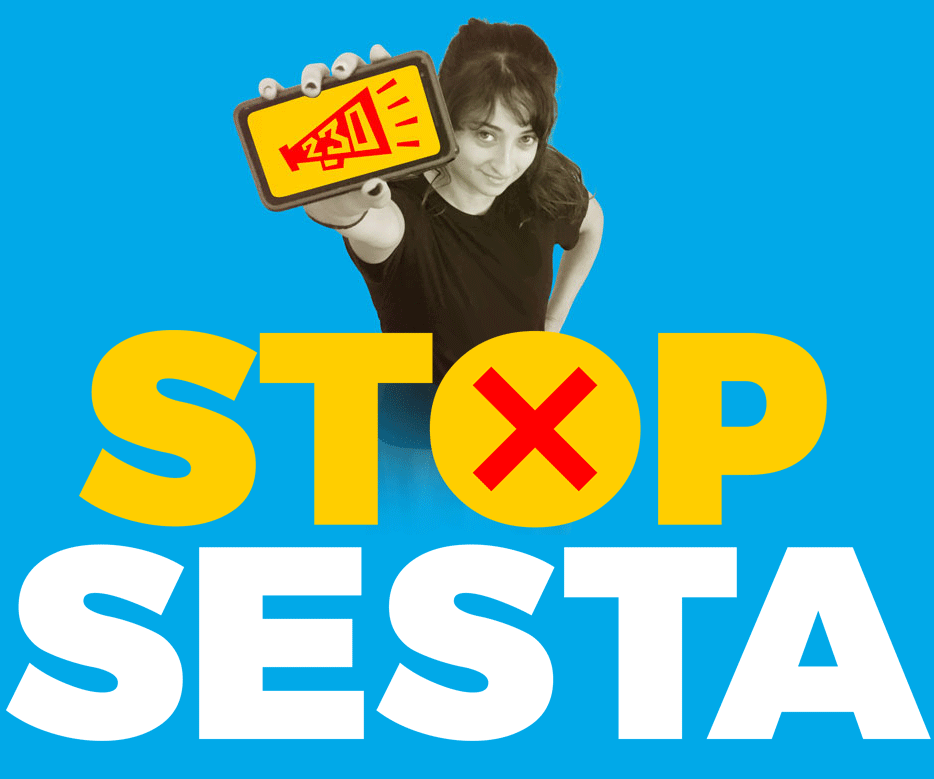
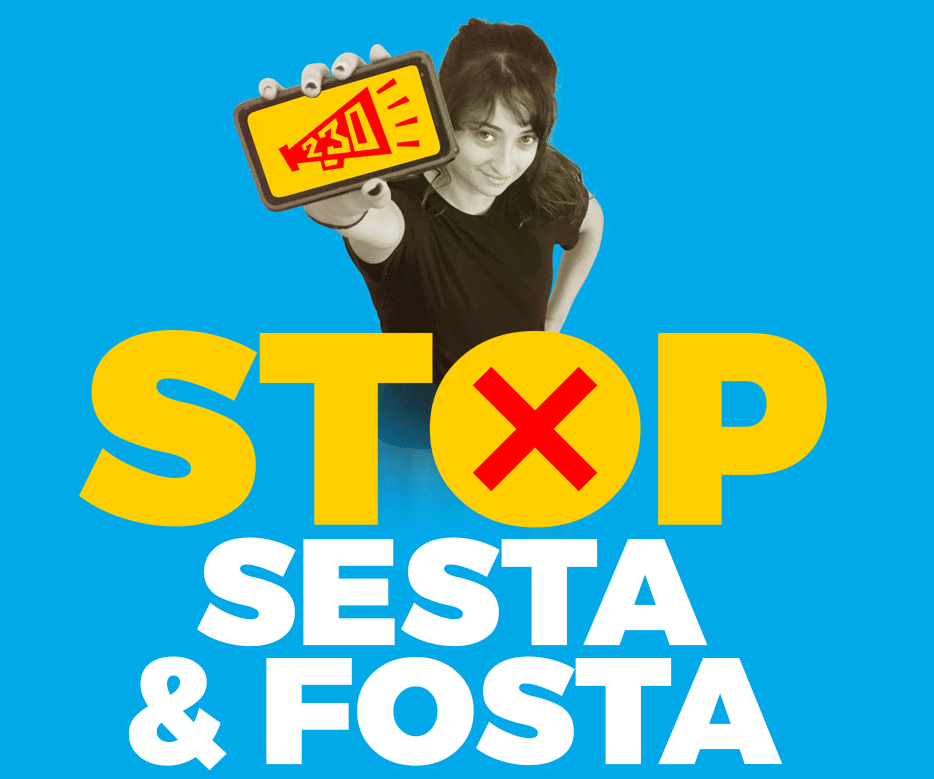
Compile

Changed region(s): [[0.0, 0.6778, 0.9936, 0.9859]]

diff --git a/index.html b/index.html
@@ -4,7 +4,7 @@
 	<meta name="generator" content="Hugo 0.26" />
   <meta charset="utf-8">
 <title>
-  Stop SESTA
+  Stop SESTA/FOSTA
 </title>
 
 <link rel="shortcut icon" href="favicon.ico" type="image/vnd.microsoft.icon" />
@@ -82,8 +82,6 @@
     background-color: #ffd100;
     color: #ff0000;
     border-color: #ff0000; }
-  #tools h3.privacy-notice-header span.privacy-notice-popover {
-    float: left; }
   #tools #congress-message-tool h3 span.customize-message-popover:hover,
   #tools h3.privacy-notice-header span.privacy-notice-popover:hover,
   #tools h3.privacy-notice-header span.privacy-notice-popover:hover {
@@ -95,30 +93,47 @@
     text-transform: uppercase;
     font-weight: bold;
     font-size: 11px; }
-  #tools #congress-message-tool input.action,
+  #tools #congress-message-tool button.action,
   #tools #call-tool button.action {
     clear: both;
     text-decoration: none;
     font-weight: 400;
+    font-size: 18px;
     letter-spacing: 0.2em;
     text-transform: uppercase;
     border: 3px solid #ff0000;
     padding: 2px 15px;
     font-weight: bold;
     border-radius: 6px;
-    margin-top: 2em;
-    background-color: transparent;
+    margin-top: 3em;
+    background-color: #ffd100;
     outline: 0;
     color: #ff0000;
     width: auto;
     display: block;
     margin-left: auto;
     margin-right: auto; }
-    #tools #congress-message-tool input.action:hover,
+    #tools #congress-message-tool button.action:hover,
     #tools #call-tool button.action:hover {
       background-color: #ff0000;
       border: 3px solid #ff0000;
       color: #ffd100; }
+  #tools #congress-message-tool h3.privacy-notice-header span.privacy-notice-popover,
+  #tools #call-tool h3.privacy-notice-header span.privacy-notice-popover {
+    float: left;
+    margin-right: 3px; }
+  #tools #congress-message-tool .tool-body,
+  #tools #call-tool .tool-body {
+    background-color: #eee;
+    padding-bottom: 2rem; }
+    #tools #congress-message-tool .tool-body .call-script-box,
+    #tools #call-tool .tool-body .call-script-box {
+      background-color: #fff; }
+  #tools #congress-message-tool .signup-radios label.radio-inline,
+  #tools #congress-message-tool .email-signup label.radio-inline,
+  #tools #call-tool .signup-radios label.radio-inline,
+  #tools #call-tool .email-signup label.radio-inline {
+    background-color: #fff; }
   #tools .tool .tool-body {
     position: relative; }
   #tools .tool form {
@@ -135,18 +150,18 @@ body.action_page-embed_iframe {
 <script type="text/javascript" src="https://act.eff.org/action/embed"></script>
 
 
-<meta property="og:site_name" content="Stop SESTA"/>
-<meta property="og:image" content="https://stopsesta.org/images/stop-sesta-OG-2.jpg" />
-<meta property="og:title" content="Stop SESTA"/>
-<meta property="og:description" content="Defend our online communities. SESTA would put our communities in danger."/>
+<meta property="og:site_name" content="Stop SESTA/FOSTA"/>
+<meta property="og:image" content="https://stopsesta.org/images/stop-sesta-OG.png" />
+<meta property="og:title" content="Stop SESTA/FOSTA"/>
+<meta property="og:description" content="Defend our online communities. SESTA/FOSTA would put our communities in danger."/>
 <meta property="og:type" content="website"/>
-<meta property="og:url" content="https://stopsesta.org/images/stop-sesta-OG-2.jpg"/>
+<meta property="og:url" content="https://stopsesta.org/images/stop-sesta-OG.png"/>
 <meta property="fb:app_id" content="147715685336936" />
  
 <meta name="twitter:card" content="summary_large_image">
-<meta name="twitter:title" content="Stop SESTA">
-<meta name="twitter:description" content="Defend our online communities. SESTA would put our communities in danger.">
-<meta name="twitter:image" content="https://stopsesta.org/images/stop-sesta-OG-2.jpg">
+<meta name="twitter:title" content="Stop SESTA/FOSTA">
+<meta name="twitter:description" content="Defend our online communities. SESTA/FOSTA would put our communities in danger.">
+<meta name="twitter:image" content="https://stopsesta.org/images/stop-sesta-OG.png">
 
 </head>
 
@@ -162,11 +177,12 @@ body.action_page-embed_iframe {
         <span class="icon-bar"></span>
         <span class="icon-bar"></span>
       </button>
-      <a class="navbar-brand" href="#top">Stop SESTA</a>
+      <a class="navbar-brand" href="#top">Stop SESTA/FOSTA</a>
     </div>
     <div id="navbar" class="collapse navbar-collapse">
       <ul class="nav navbar-nav navbar-right">
         <li><a href="#quotes">Quotes</a></li>
+        <li><a href="#facts">Facts</a></li>
         <li><a href="#take-action">Take Action</a></li>
         <li><a href="#who-we-are">Who We Are</a></li>
       </ul>
@@ -187,15 +203,15 @@ body.action_page-embed_iframe {
         <div class="col-md-8 col-md-offset-2">
           <div class="white-box">
 
-<p>We all rely on online communities to work, socialize, and learn. From the largest social media site to the smallest community message board, online  platforms are central to our right to assemble and speak out. <a href="https://www.eff.org/deeplinks/2017/08/internet-censorship-bill-would-spell-disaster-speech-and-innovation">SESTA would put those communities in danger</a>.</p>
+<p>We all rely on online communities to work, socialize, and learn. From the largest social media sites to the smallest message board, online platforms are central to our right to assemble and speak out. <a href="https://www.eff.org/deeplinks/2018/02/fosta-would-be-disaster-online-communities">SESTA and FOSTA would put all of us at risk</a> of being shut out of those spaces.</p>
 
-<p>The authors of SESTA say it&#8217;s designed to fight sex trafficking, but the bill wouldn&#8217;t punish traffickers. It <em>would</em> threaten legitimate online speech.</p>
+<p>The authors of these bills in Congress say they&#8217;re designed to fight sex trafficking, but the bills wouldn&#8217;t punish traffickers. They would threaten legitimate online speech.</p>
 
-<p>Online platforms are enabled by a special law referred to as CDA 230 or simply Section 230. Section 230 protects online platforms from liability for some types of speech by their users. Without Section 230, social media would not exist in its current form, and neither would the plethora of nonprofit and community-based online groups that serve as crucial outlets for free expression and knowledge sharing.</p>
+<p>Online platforms are enabled by a law referred to as Section 230. Section 230 protects online platforms from liability for some types of speech by their users. Without Section 230, social media would not exist in its current form, and neither would the plethora of nonprofit and community-based online groups that serve as crucial outlets for free expression and knowledge sharing.</p>
 
-<p>If Congress undermined these important protections by passing SESTA, many online communities would be forced to place strong restrictions on their users&#8217; speech or risk going out of business.</p>
+<p>If Congress undermines these important protections by passing SESTA/FOSTA, many online platforms will be forced to place strong restrictions on their users&#8217; speech, silencing a lot of marginalized voices in the process.</p>
 
-<p>Let&#8217;s tell Congress: SESTA wouldn’t stop sex trafficking, but it would strangle online communities.</p>
+<p>Let&#8217;s tell Congress: SESTA/FOSTA won&#8217;t stop sex trafficking, but it <em>will</em> ruin online communities.</p>
 
             <div class="action-button">
               <a href="#take-action" class="button">Act Now</a>
@@ -227,7 +243,7 @@ body.action_page-embed_iframe {
   <div class="content-section quote-section bg-blue" id="quotes">
   <div class="container text-left">
     <div class="col-md-8 col-md-offset-2">
-      <h2>Experts oppose SESTA</h2>
+      <h2>Experts oppose SESTA/FOSTA</h2>
 
       <div class="quote">
         <p>Online platforms are the modern town square. We all benefit from the diversity of voices and perspectives online, and that&#8217;s largely thanks to the safe harbor protections in Section 230. Shifting more liability to Internet platforms for their users&#8217; speech will inevitably lead to those platforms more tightly monitoring and restricting users' activities. Again and again, when platforms clamp down on their users&#8217; speech, marginalized voices are the first to disappear.</p>
@@ -268,21 +284,40 @@ which many things&#160;&#8212; including lawless behavior&#160;&#8212; come to l
 </div>
 
 
-  <div  id="take-action" class="content-section bg-yellow">
+  <div class="content-section bg-yellow" id="facts">
+  <div class="container text-left">
+    <div class="col-md-8 col-md-offset-2">
+      <h2>Facts about SESTA/FOSTA</h2>
+
+        <p>On February 27, <a href="https://www.eff.org/deeplinks/2018/02/house-vote-fosta-win-censorship">the House of Representatives passed a bill</a> that combined the Senate&#8217;s Stop Enabling Sex Traffickers Act (SESTA) and the House&#8217;s Allow States and Victims to Fight Online Sex Trafficking Act (FOSTA). This new version of FOSTA would:</p>
+
+        <ul>
+          <li>Expand existing federal criminal sex trafficking law to target online platforms where sex trafficking content appears. Platform owners could be prosecuted under the expanded law even if they didn&#8217;t know that people were using those platforms for sex trafficking purposes.</li>
+          <li>Open online platforms to new criminal and civil liability for sex trafficking at both the federal and state levels.</li>
+          <li>Expand federal criminal prostitution law to cover those who use the Internet to &#8220;promote or facilitate prostitution.&#8221; Many platforms would feel pressured to become more restrictive in their treatment of sexual speech.</li>
+          <li>Change the law <em>retroactively</em>: an online platform could be prosecuted under state law or held civilly liable for sex trafficking for failing to comply with the law before it passed.</li>
+        </ul>
+
+        <p>Together, these measures would effectively incentivize online platforms to over-censor their users. When platforms err on the side of censorship, it&#8217;s marginalized voices that are hit hardest.</p>
+
+    </div>
+  </div>
+</div>
+
+
+  <div  id="take-action" class="content-section bg-blue">
 
   <p>&nbsp;</p>
 
 
 <h2>Act Now</h2>
 
-<a id="action-center-widget" href="https://act.eff.org/action/don-t-let-congress-censor-the-internet">Click here to take action.</a>
+<a id="action-center-widget" href="https://act.eff.org/action/stop-sesta-fosta">Click here to take action.</a>
 
 
 
 <p>&nbsp;</p>
 <p>&nbsp;</p>
-<p>&nbsp;</p>
-
 
 </div>
 
@@ -338,17 +373,6 @@ which many things&#160;&#8212; including lawless behavior&#160;&#8212; come to l
     
 
       
-        <a href="https://www.committeeforjustice.org" class="">
-      
-          <img src="https://stopsesta.global.ssl.fastly.net/images/logos/CFJ_preview.jpg" alt="Committee for Justice">
-
-      
-        </a>
-      
-
-    
-
-      
         <a href="https://demandprogress.org" class="">
       
           <img src="https://stopsesta.global.ssl.fastly.net/images/logos/demand-progress.png" alt="Demand Progress">
@@ -374,17 +398,6 @@ which many things&#160;&#8212; including lawless behavior&#160;&#8212; come to l
         <a href="https://www.engine.is/" class="">
       
           <img src="https://stopsesta.global.ssl.fastly.net/images/logos/engine.png" alt="Engine">
-
-      
-        </a>
-      
-
-    
-
-      
-        <a href="https://www.fightforthefuture.org" class="">
-      
-          <img src="https://stopsesta.global.ssl.fastly.net/images/logos/fight.png" alt="Fight for the Future">
 
       
         </a>
@@ -448,17 +461,6 @@ which many things&#160;&#8212; including lawless behavior&#160;&#8212; come to l
     
 
       
-        <a href="https://restorethe4th.com" class="">
-      
-          <img src="https://stopsesta.global.ssl.fastly.net/images/logos/restore.png" alt="Restore the Fourth">
-
-      
-        </a>
-      
-
-    
-
-      
         <a href="http://rootsaction.org" class="">
       
           <img src="https://stopsesta.global.ssl.fastly.net/images/logos/roots.png" alt="RootsAction">
@@ -481,9 +483,20 @@ which many things&#160;&#8212; including lawless behavior&#160;&#8212; come to l
     
 
       
-        <a href="https://www.woodhullfoundation.org" class="">
+        <a href="https://restorethe4th.com/" class="">
       
-          <img src="https://stopsesta.global.ssl.fastly.net/images/logos/woodhull.png" alt="Woodhull Freedom Foundation">
+          <img src="https://stopsesta.global.ssl.fastly.net/images/logos/restore.png" alt="Restore the Fourth">
+
+      
+        </a>
+      
+
+    
+
+      
+        <a href="http://www.new.swopusa.org/" class="">
+      
+          <img src="https://stopsesta.global.ssl.fastly.net/images/logos/swop.png" alt="Sex Workers Outreach Project">
 
       
         </a>
@@ -501,13 +514,6 @@ which many things&#160;&#8212; including lawless behavior&#160;&#8212; come to l
       
 
     
-
-
-    <p>&nbsp;</p>
-    <p>&nbsp;</p>
-    <p>&nbsp;</p>
-    <p>&nbsp;</p>
-    <p>&nbsp;</p>
 
   </div>
 </div>

diff --git a/site.css b/site.css
@@ -315,7 +315,7 @@ h2 {
  * Background section
  */
 .content-section {
-  padding: 2em 0;
+  padding: 4em 0;
   position: relative;
   overflow-x: hidden; }
   .content-section .action-button {
@@ -327,7 +327,7 @@ h2 {
       @media (min-width: 768px) {
         .content-section .action-button a {
           font-size: 1.5em; } }
-  .content-section p {
+  .content-section p, .content-section li {
     color: #000;
     font-style: normal;
     font-weight: 400;
@@ -372,11 +372,11 @@ h2 {
     .quote-section div div div:first-of-type {
       margin-top: 60px; }
     .quote-section div div div a, .quote-section div div div span {
-      color: #ffffff;
+      color: black;
       text-transform: uppercase;
       font-weight: 400;
       letter-spacing: 0.15em;
-      font-size: 0.8em;
+      font-size: 1em;
       text-align: right;
       margin-left: 35%;
       display: block; }
@@ -533,7 +533,6 @@ p.tagline {
   background-color: #00a9e7; }
   .bg-blue h2 {
     color: #ffffff;
-    margin-top: 30px;
     text-align: center; }
 
 .bg-black {

diff --git a/js/main.js b/js/main.js
@@ -30,6 +30,12 @@ $(function(){
       }, 600);
     });
 
+    $('a[href="#facts"]').click(function () {
+      $('html, body').animate({
+        scrollTop: $("#facts").offset().top - 20
+      }, 600);
+    });
+
     $('a[href="#top"]').click(function () {
       $('html, body').animate({
         scrollTop: $("#top").offset().top - 15
